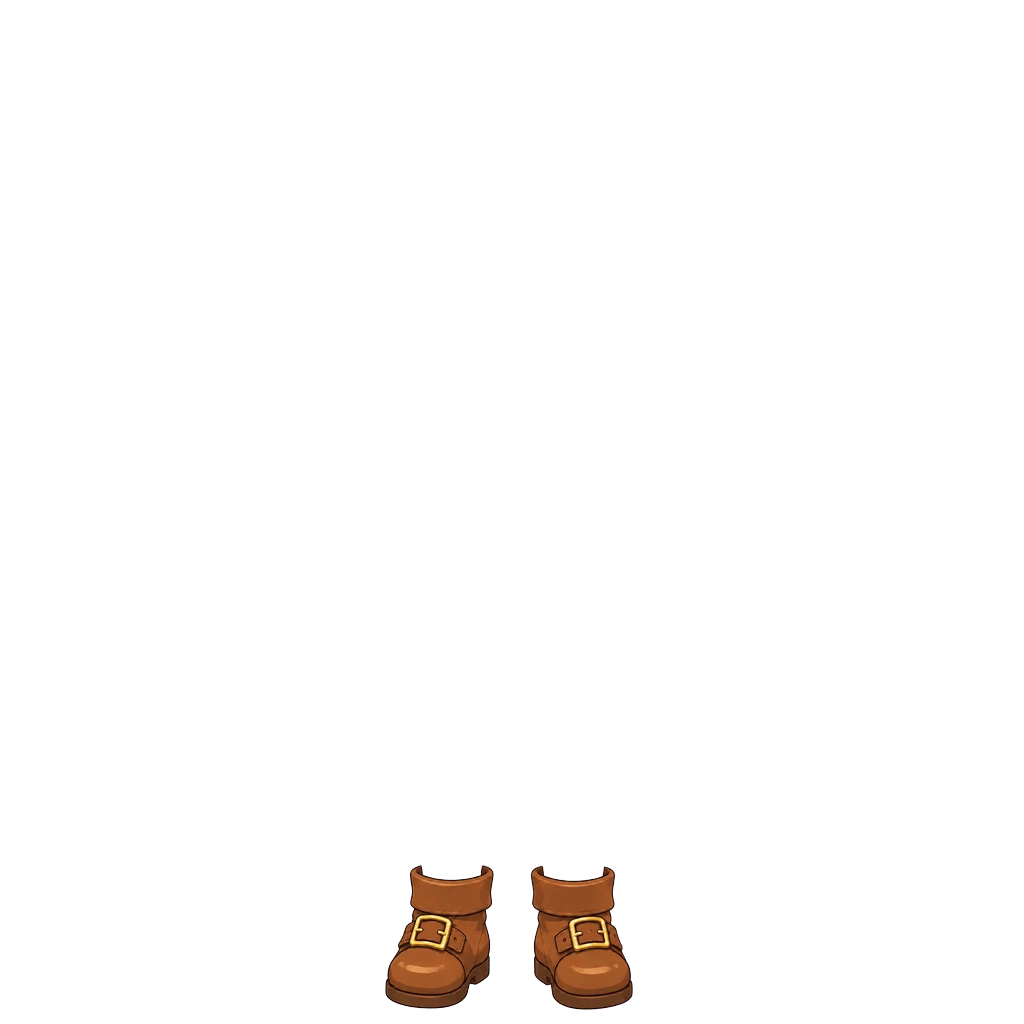
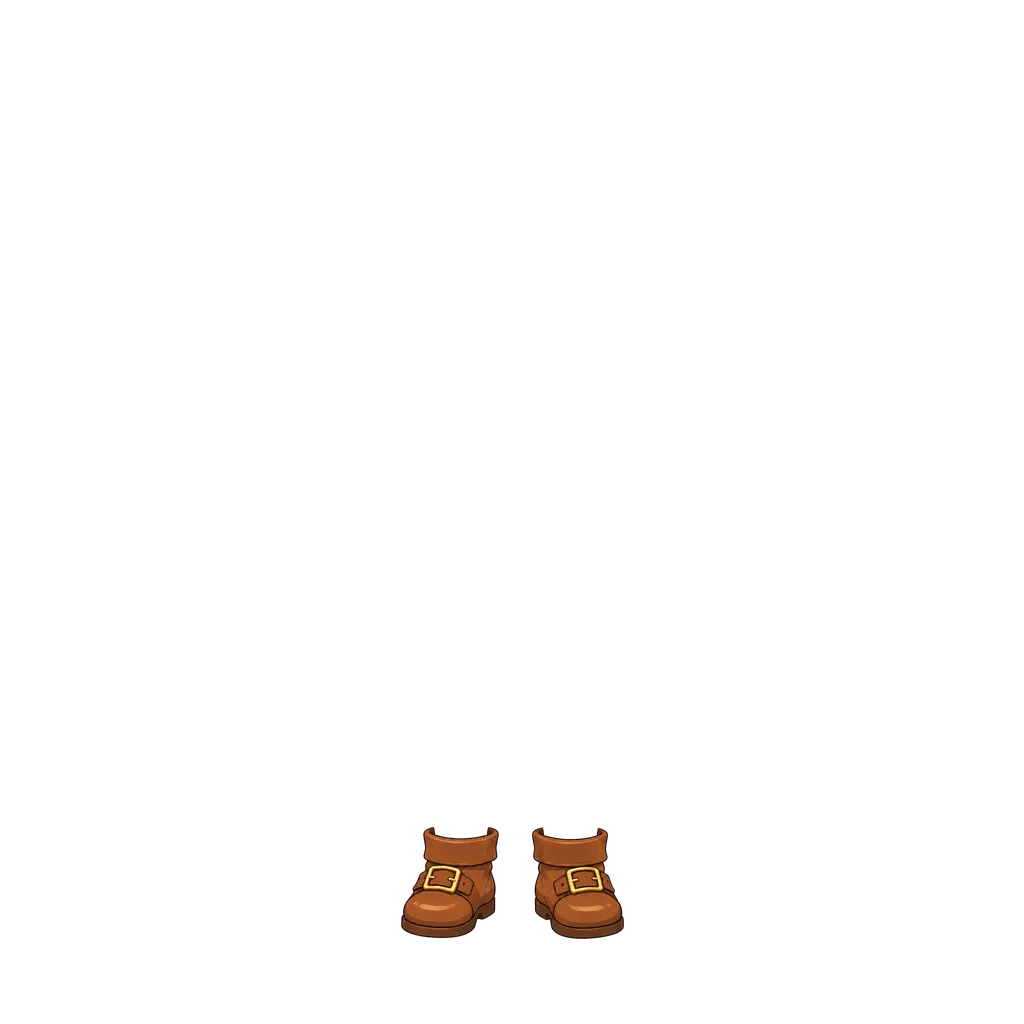
오늘의 발견 메모지 디자인 + 해적 신발 크기 재조정 (#735)
* 해적 신발 크기·위치 재조정 (베이스 다리 비율에 맞춤)

- 해적 남아 원화와 비교해 베이스가 다리가 짧고 가늘어서, 신발 높이를 112로
  줄이고 윗선을 y827에 맞춤(발바닥 y939)
- 왼짝·오른짝을 따로 배치해 발별로 미세 조정할 수 있게 함
- 같은 파일명이라 경로에 ?v=2

Claude-Session: https://claude.ai/code/session_018maNuYqDfFyRSe9uKpZhPR

* 오늘의 발견을 수첩에 붙인 메모지 디자인으로 변경

- 크림색 종이 질감 + 연두 마스킹테이프, 테두리 없이 그림자·거친 가장자리로만 표현
- 수첩보다 살짝 좁게, '오늘의 발견'은 작게 · 발견 내용은 진한 갈색으로 크게
- 도감 버튼을 오른쪽 작은 알약 버튼(도감 N개 ›)으로
- '탐험일지' 머리말 아래 · 수첩 바로 위로 이동
- App.jsx에서 DiscoveryMemo 컴포넌트로 분리

Claude-Session: https://claude.ai/code/session_018maNuYqDfFyRSe9uKpZhPR

---------

Changed region(s): [[0.375, 0.8125, 0.625, 1.0]]

diff --git a/src/App.jsx b/src/App.jsx
@@ -51,6 +51,7 @@ import ItemShopSheet from "./components/camp/ItemShopSheet.jsx";
 import HeroStage from "./components/HeroStage.jsx";
 import AdventureJournalCard from "./components/AdventureJournalCard.jsx";
 import AdventureSpotPicker from "./components/AdventureSpotPicker.jsx";
+import DiscoveryMemo from "./components/DiscoveryMemo.jsx";
 import PageFlip from "./components/PageFlip.jsx";
 import {
   AVATAR_OWNED_KEY, AVATAR_EQUIPPED_KEY, CHAR_DISPLAY_MODE_KEY,
@@ -4762,9 +4763,17 @@ export default function App() {
                   />
                 );
               })()}
-              {/* [사용자 확정 2026-08-24] 탐험일지 수첩 "위"로 다시 올렸다 —
-                  발견은 지도를 지나오며 이미 얻은 것이라 수첩을 펴기 전에 먼저 보인다. */}
-              {/* 오늘의 발견 한 줄 — 발견 지점을 지나갔으면 무엇을 찾았는지, 아직이면 펫이 흘리는 힌트.
+              {/* 섹션 구분 — 탐험일지 (탐험 스킨 전용, 지도 아래·학원카드 위, 갈색톤 — 사용자 확정) */}
+              {kidSkin!=="cute"&&(
+                <div style={{display:"flex",alignItems:"center",gap:12,margin:"21px 2px 11px"}}>
+                  <div style={{flex:1,height:2,borderRadius:2,background:"linear-gradient(90deg, rgba(138,107,71,0) 10%, rgba(138,107,71,0.32))"}}/>
+                  <span style={{flexShrink:0,fontSize:13.5,fontWeight:900,letterSpacing:0.4,color:"#8A6B47"}}>탐험일지</span>
+                  <div style={{flex:1,height:2,borderRadius:2,background:"linear-gradient(90deg, rgba(138,107,71,0.32), rgba(138,107,71,0) 90%)"}}/>
+                </div>
+              )}
+              {/* [사용자 확정 2026-08-24] 탐험일지 수첩 "위" — 발견은 지도를 지나오며 이미 얻은 것이라
+                  수첩을 펴기 전에 먼저 보인다. [2026-10-01] '탐험일지' 머리말 아래 수첩에 붙인 메모지로. */}
+              {/* 오늘의 발견 — 발견 지점을 지나갔으면 무엇을 찾았는지, 아직이면 펫이 흘리는 힌트.
                   힌트는 오늘 발견의 hint라 "오늘은 반짝이는 걸 찾을 것 같아!" → 기대하며 시작하게 된다. */}
               {kidSkin!=="cute"&&(()=>{
                 const _dd=childDate||TODAY;
@@ -4779,41 +4788,12 @@ export default function App() {
                    힌트를 띄우면 지나가도 아무 일이 없어 아이가 헛기다린다. */
                 if(!canDiscoverOn(childId,_dd)&&!_d) return null;
                 return (
-                  /* [사용자 확정 2026-08-11] '오늘의 발견'·'새싹'·'도감 16'이 비슷한 무게라
-                     정작 무엇을 찾았는지가 안 도드라졌다 → 찾은 것(새싹)을 한 단계 키우고
-                     머리말은 더 작고 연하게. '도감 16'은 개수인지 번호인지 몰라 '도감 16개'로.
-                     카드 안에 또 테두리 상자가 있어 카드 속 카드처럼 보이던 것도 글자 버튼으로. */
-                  <div style={{display:"flex",alignItems:"center",gap:9,margin:"0 2px 11px",padding:"8px 12px",borderRadius:14,
-                    background:_d?"rgba(255,255,255,0.72)":"rgba(138,107,71,0.07)",
-                    border:_d?"1.5px solid rgba(138,107,71,0.32)":"1.5px dashed rgba(138,107,71,0.3)"}}>
-                    <span style={{fontSize:22,flexShrink:0}}>{_d?_d.emoji:"🐾"}</span>
-                    <div style={{flex:1,minWidth:0}}>
-                      <p style={{margin:0,fontSize:10,fontWeight:800,color:"#B3A493",letterSpacing:0.3}}>오늘의 발견</p>
-                      {/* 힌트가 길면 한 줄로는 잘린다 (사용자 지적) → 두 줄까지 접어서 보여 준다 */}
-                      <p style={{margin:"1px 0 0",fontSize:14.5,fontWeight:900,color:_d?"#5A4430":"#8C7E6B",
-                        lineHeight:1.3,wordBreak:"keep-all",overflow:"hidden",
-                        display:"-webkit-box",WebkitLineClamp:2,WebkitBoxOrient:"vertical"}}>
-                        {_d?_d.name:getTodayHint(childId,_dd)}
-                      </p>
-                    </div>
-                    <button onClick={()=>setOpenDiscoveryBook(true)}
-                      style={{flexShrink:0,border:"none",background:"none",color:"#8A6B47",
-                        padding:"6px 2px",fontSize:11.5,fontWeight:900,cursor:"pointer",
-                        textDecoration:"underline",textUnderlineOffset:3,
-                        fontFamily:"'Cafe24Ssurround','Apple SD Gothic Neo','Noto Sans KR',sans-serif"}}>
-                      도감 {getCollectedCount(discoveryData,childId)}개
-                    </button>
-                  </div>
+                  <DiscoveryMemo found={!!_d} emoji={_d?.emoji}
+                    text={_d?_d.name:getTodayHint(childId,_dd)}
+                    count={getCollectedCount(discoveryData,childId)}
+                    onOpenBook={()=>setOpenDiscoveryBook(true)}/>
                 );
               })()}
-              {/* 섹션 구분 — 탐험일지 (탐험 스킨 전용, 지도 아래·학원카드 위, 갈색톤 — 사용자 확정) */}
-              {kidSkin!=="cute"&&(
-                <div style={{display:"flex",alignItems:"center",gap:12,margin:"21px 2px 11px"}}>
-                  <div style={{flex:1,height:2,borderRadius:2,background:"linear-gradient(90deg, rgba(138,107,71,0) 10%, rgba(138,107,71,0.32))"}}/>
-                  <span style={{flexShrink:0,fontSize:13.5,fontWeight:900,letterSpacing:0.4,color:"#8A6B47"}}>탐험일지</span>
-                  <div style={{flex:1,height:2,borderRadius:2,background:"linear-gradient(90deg, rgba(138,107,71,0.32), rgba(138,107,71,0) 90%)"}}/>
-                </div>
-              )}
               {/* 오늘 학원 일정 섹션 */}
               <div style={{marginTop:2,marginBottom:14}}>
                 {childTodayAc.length===0?(

diff --git a/src/components/DiscoveryMemo.jsx b/src/components/DiscoveryMemo.jsx
@@ -1,0 +1,52 @@
+/* DiscoveryMemo — 탐험일지 수첩 위에 붙인 '오늘의 발견' 메모지 (탐험 스킨 전용)
+   [사용자 확정 2026-10-01] 크림색 종이 + 연두 마스킹테이프 한 장. 수첩에 장식이 많아서
+   테두리는 긋지 않고 그림자와 살짝 거친 가장자리로만 종이처럼 보이게 한다.
+   폭은 수첩보다 살짝 좁게, 높이는 두 줄. */
+
+const FONT = "'Cafe24Ssurround','Apple SD Gothic Neo','Noto Sans KR',sans-serif";
+
+/* 손으로 뜯은 듯한 가장자리 — 몇 px만 들쭉날쭉해서 눈에 띄지 않게 */
+const TORN_EDGE = "polygon(0% 3px, 6% 0%, 14% 2px, 23% 0%, 34% 3px, 47% 1px, 58% 3px, 69% 0%, 81% 2px, 92% 0%, 100% 3px, " +
+  "99.6% 30%, 100% 62%, 99.5% 100%, 90% calc(100% - 2px), 78% 100%, 66% calc(100% - 3px), 52% calc(100% - 1px), " +
+  "40% 100%, 28% calc(100% - 3px), 15% calc(100% - 1px), 5% 100%, 0% calc(100% - 3px), 0.4% 60%, 0% 28%)";
+
+export default function DiscoveryMemo({ found, emoji, text, count, onOpenBook }) {
+  return (
+    <div style={{ position: "relative", margin: "10px 10px 16px",
+      filter: "drop-shadow(0 2px 3px rgba(110,84,50,0.16)) drop-shadow(0 6px 10px rgba(110,84,50,0.08))" }}>
+      <div style={{ display: "flex", alignItems: "center", gap: 10, padding: "15px 14px 13px 14px",
+        clipPath: TORN_EDGE,
+        background: "radial-gradient(120% 140% at 20% 0%, #FFFBEE 0%, #FBF3DD 55%, #F6EBCF 100%)," +
+          "repeating-linear-gradient(8deg, rgba(160,130,80,0.035) 0 2px, transparent 2px 7px)",
+        backgroundBlendMode: "multiply" }}>
+        <span style={{ fontSize: 30, lineHeight: 1, flexShrink: 0, width: 38, textAlign: "center",
+          opacity: found ? 1 : 0.85 }}>{found ? emoji : "🐾"}</span>
+        <div style={{ flex: 1, minWidth: 0 }}>
+          <p style={{ margin: 0, fontFamily: FONT, fontSize: 11.5, fontWeight: 400, color: "#9C8A6E", letterSpacing: 0.3 }}>
+            오늘의 발견
+          </p>
+          {/* 힌트가 길면 한 줄로는 잘린다 (사용자 지적) → 두 줄까지 접어서 보여 준다 */}
+          <p style={{ margin: "3px 0 0", fontFamily: FONT, fontSize: 16.5, fontWeight: 400, lineHeight: 1.3,
+            color: found ? "#4A3523" : "#5E4A36", wordBreak: "keep-all", overflow: "hidden",
+            display: "-webkit-box", WebkitLineClamp: 2, WebkitBoxOrient: "vertical" }}>
+            {text}
+          </p>
+        </div>
+        <button onClick={onOpenBook}
+          style={{ flexShrink: 0, display: "inline-flex", alignItems: "center", gap: 3,
+            padding: "6px 10px 6px 12px", borderRadius: 999, cursor: "pointer",
+            background: "rgba(176,186,128,0.28)", border: "1.5px solid rgba(140,156,90,0.45)",
+            color: "#5C5432", fontFamily: FONT, fontSize: 12.5, fontWeight: 400, whiteSpace: "nowrap" }}>
+          도감 {count}개
+          <span style={{ fontSize: 14, lineHeight: 1, marginTop: -1 }}>›</span>
+        </button>
+      </div>
+      {/* 연두 마스킹테이프 — 메모 위쪽 가운데. 반투명이라 아래 종이가 살짝 비친다 */}
+      <div aria-hidden style={{ position: "absolute", top: -7, left: "50%", width: 78, height: 18,
+        transform: "translateX(-50%) rotate(-1.5deg)",
+        background: "radial-gradient(circle, rgba(255,255,255,0.55) 1px, transparent 1.6px) 0 0 / 7px 7px," +
+          "rgba(150,176,96,0.72)",
+        clipPath: "polygon(2% 0, 98% 4%, 100% 30%, 97% 55%, 100% 100%, 3% 96%, 0 70%, 3% 45%, 0 15%)" }}/>
+    </div>
+  );
+}

diff --git a/src/data/avatarEquipment.js b/src/data/avatarEquipment.js
@@ -284,11 +284,11 @@ export const AVATAR_CATALOG = [
   { id: "shoes_astronaut",slot: "shoes", label: "우주 부츠",    emoji: "🥾", price:DECOR_PRICE.common, rarity: "common", theme: "space", forGender: "boy", img: "assets/avatar/shoes/astronaut-boots-boy.webp", thumb: "assets/avatar/thumb/shoes_astronaut.webp" },
 
   /* 해적 신발 — 남아 신발 원화(사용자 원화 2026-10-01). 해적 옷(top_pirate)과 같은
-     테마라 같은 이름을 썼다. 원화 두 짝의 간격이 베이스 다리 간격보다 넓어서
-     가로만 0.300 · 세로 0.3404 로 따로 줬다(가로 12% 눌림) — 균등 배율로는 발이
-     신발 안쪽으로 치우쳐 보였다. 밑단 위끝 y865(우주 부츠와 같은 자리) · 좌우
-     중심을 다리 중심(왼 440 · 오른 580)에 맞춘 평균으로 가로 배치 */
-  { id: "shoes_pirate",   slot: "shoes", label: "해적 신발",    emoji: "🥾", price:DECOR_PRICE.common, rarity: "common", theme: "pirate", forGender: "boy", img: "assets/avatar/shoes/pirate-boots-boy.webp", thumb: "assets/avatar/thumb/shoes_pirate.webp" },
+     테마라 같은 이름을 썼다. [2026-10-01 재조정] 해적 남아 원화와 비교하니 베이스가
+     다리가 짧고(약 6%) 가늘어서(약 15%) 처음 크기로는 정강이까지 덮어 길쭉해 보였다.
+     원화처럼 다리 길이 39% 지점(y827)에서 시작해 발바닥 y939 에서 끝나게 높이를 112 로
+     줄였고, 두 짝을 따로 배치한다 — 왼짝 (401,827) 114×112 · 오른짝 (515,827) 109×112 */
+  { id: "shoes_pirate",   slot: "shoes", label: "해적 신발",    emoji: "🥾", price:DECOR_PRICE.common, rarity: "common", theme: "pirate", forGender: "boy", img: "assets/avatar/shoes/pirate-boots-boy.webp?v=2", thumb: "assets/avatar/thumb/shoes_pirate.webp" },
 
 ];
 
